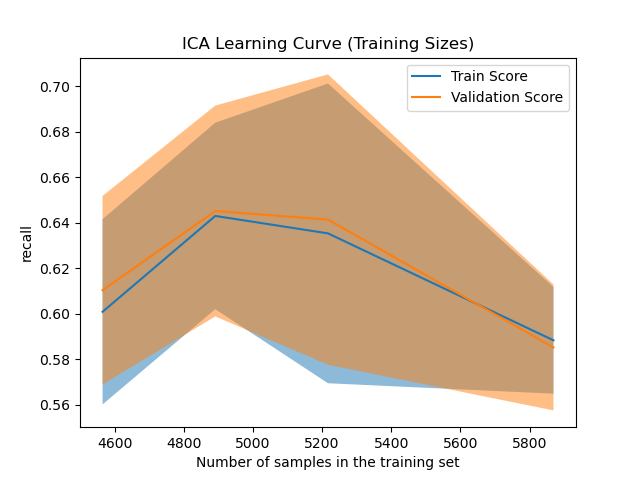
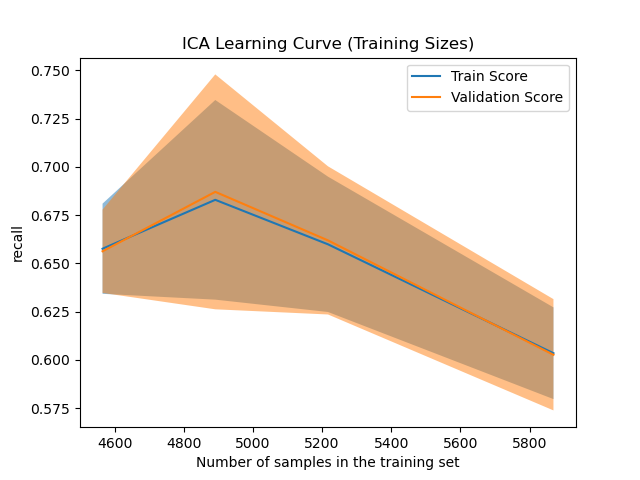
finished plots for dr eval

diff --git a/cs7641_machine_learning/lectures/week12/assignment3/source/dimensionality_reduction.py b/cs7641_machine_learning/lectures/week12/assignment3/source/dimensionality_reduction.py
@@ -14,7 +14,7 @@ from sklearn.manifold import (LocallyLinearEmbedding)
 np.random.seed(123)
 
 # linear
-def pca(X_train:pd.DataFrame, X_test:pd.DataFrame, kern='General'):
+def pca(X_train:pd.DataFrame, X_test:pd.DataFrame, components, kern='General'):
     """_summary_
 
     Args:
@@ -26,7 +26,7 @@ def pca(X_train:pd.DataFrame, X_test:pd.DataFrame, kern='General'):
     match kern:
         case 'General':
             print('Fitting General PCA')
-            transformer = PCA(n_components=2,
+            transformer = PCA(n_components=components,
                                 svd_solver='auto',
                                 random_state=123)
             transformer.fit(X_train)
@@ -34,12 +34,12 @@ def pca(X_train:pd.DataFrame, X_test:pd.DataFrame, kern='General'):
             X_test_transformed = transformer.transform(X_test)
 
             # Train DF
-            cols_tr = [f'pca{i}]' for i in range(X_train_transformed.shape[1])]
+            cols_tr = [f'pca{i}' for i in range(X_train_transformed.shape[1])]
             X_train_transformed = pd.DataFrame(data=X_train_transformed,
                                                 columns=cols_tr)
 
             # Test DF
-            cols_te = [f'pca{i}]' for i in range(X_test_transformed.shape[1])]
+            cols_te = [f'pca{i}' for i in range(X_test_transformed.shape[1])]
             X_test_transformed = pd.DataFrame(data=X_test_transformed,
                                                 columns=cols_te)
 
@@ -49,7 +49,7 @@ def pca(X_train:pd.DataFrame, X_test:pd.DataFrame, kern='General'):
 
     return transformer, X_train_transformed, X_test_transformed     
 
-def ica(X_train:pd.DataFrame, X_test:pd.DataFrame, which='fast'):
+def ica(X_train:pd.DataFrame, X_test:pd.DataFrame, components, which='fast'):
     """_summary_
 
     Args:
@@ -61,7 +61,7 @@ def ica(X_train:pd.DataFrame, X_test:pd.DataFrame, which='fast'):
     match which:
         case 'fast':
             print('Fitting and Transforming FastICA')
-            transformer = FastICA(n_components=2,
+            transformer = FastICA(n_components=components,
                                 random_state=123,
                                 whiten='unit-variance')
             transformer.fit(X_train)
@@ -69,12 +69,12 @@ def ica(X_train:pd.DataFrame, X_test:pd.DataFrame, which='fast'):
             X_test_transformed = transformer.transform(X_test)
 
             # Train DF
-            cols_tr = [f'ica{i}]' for i in range(X_train_transformed.shape[1])]
+            cols_tr = [f'ica{i}' for i in range(X_train_transformed.shape[1])]
             X_train_transformed = pd.DataFrame(data=X_train_transformed,
                                                 columns=cols_tr)
 
             # Test DF
-            cols_te = [f'ica{i}]' for i in range(X_test_transformed.shape[1])]
+            cols_te = [f'ica{i}' for i in range(X_test_transformed.shape[1])]
             X_test_transformed = pd.DataFrame(data=X_test_transformed,
                                                 columns=cols_te)
 
@@ -84,7 +84,7 @@ def ica(X_train:pd.DataFrame, X_test:pd.DataFrame, which='fast'):
 
     return transformer, X_train_transformed, X_test_transformed
 
-def randomized_projections(X_train:pd.DataFrame, X_test:pd.DataFrame, which='Sparse'):
+def randomized_projections(X_train:pd.DataFrame, X_test:pd.DataFrame, components, which='Sparse'):
     """_summary_
 
     Args:
@@ -96,7 +96,7 @@ def randomized_projections(X_train:pd.DataFrame, X_test:pd.DataFrame, which='Spa
     match which:
         case 'Sparse':
             print('Fitting and Transforing with Sparse Random Projection')
-            transformer = SparseRandomProjection(n_components=2,
+            transformer = SparseRandomProjection(n_components=components,
                                                 eps=0.9,
                                                 random_state=123)
             transformer.fit(X_train)
@@ -104,12 +104,12 @@ def randomized_projections(X_train:pd.DataFrame, X_test:pd.DataFrame, which='Spa
             X_test_transformed = transformer.transform(X_test)
 
             # Train DF
-            cols_tr = [f'srp{i}]' for i in range(X_train_transformed.shape[1])]
+            cols_tr = [f'srp{i}' for i in range(X_train_transformed.shape[1])]
             X_train_transformed = pd.DataFrame(data=X_train_transformed,
                                                 columns=cols_tr)
 
             # Test DF
-            cols_te = [f'srp{i}]' for i in range(X_test_transformed.shape[1])]
+            cols_te = [f'srp{i}' for i in range(X_test_transformed.shape[1])]
             X_test_transformed = pd.DataFrame(data=X_test_transformed,
                                                 columns=cols_te)
             
@@ -118,7 +118,7 @@ def randomized_projections(X_train:pd.DataFrame, X_test:pd.DataFrame, which='Spa
 
     return transformer, X_train_transformed, X_test_transformed
 
-def manifold_learning(X_train:pd.DataFrame, X_test:pd.DataFrame, which='hem'):
+def manifold_learning(X_train:pd.DataFrame, X_test:pd.DataFrame, components, neighbors,  which='hem'):
     """_summary_
 
     Args:
@@ -130,8 +130,8 @@ def manifold_learning(X_train:pd.DataFrame, X_test:pd.DataFrame, which='hem'):
     match which:
         case 'hem':
             print('Fitting and Transforming with Locally Linear Embedding: Heissan Mapping')
-            transformer = LocallyLinearEmbedding(n_neighbors=15,
-                                                n_components=2,
+            transformer = LocallyLinearEmbedding(n_neighbors=neighbors,
+                                                n_components=components,
                                                 reg=1e-3,
                                                 eigen_solver='dense',
                                                 method='hessian',
@@ -142,12 +142,12 @@ def manifold_learning(X_train:pd.DataFrame, X_test:pd.DataFrame, which='hem'):
             X_test_transformed = transformer.transform(X_test)
 
             # Train DF
-            cols_tr = [f'hlle{i}]' for i in range(X_train_transformed.shape[1])]
+            cols_tr = [f'hlle{i}' for i in range(X_train_transformed.shape[1])]
             X_train_transformed = pd.DataFrame(data=X_train_transformed,
                                                 columns=cols_tr)
 
             # Test DF
-            cols_te = [f'hlle{i}]' for i in range(X_test_transformed.shape[1])]
+            cols_te = [f'hlle{i}' for i in range(X_test_transformed.shape[1])]
             X_test_transformed = pd.DataFrame(data=X_test_transformed,
                                                 columns=cols_te)
             print('Done with Locally Linear Embedding: Heissan Mapping')
@@ -161,31 +161,43 @@ def main():
     X_train_scaled_cd, X_test_scaled_cd, y_train_cd, y_test_cd = final_dataset(dataset='cvd')
     
     # nf
-    # X_train_scaled_nf, X_test_scaled_nf, y_train_nf, y_test_nf = final_dataset(dataset='nf')
+    X_train_scaled_nf, X_test_scaled_nf, y_train_nf, y_test_nf = final_dataset(dataset='nf')
 
     # pca
     for k in ['General']:
-        pca(X_train=X_train_scaled_cd, X_test=X_test_scaled_cd, kern=k)
-        #pca(X_train=X_train_scaled_nf, X_test=X_test_scaled_nf, kern=k)
+        pca(X_train=X_train_scaled_cd, 
+            X_test=X_test_scaled_cd,
+            components=4, kern=k)
+        pca(X_train=X_train_scaled_nf,
+            X_test=X_test_scaled_nf,
+            components=4, kern=k)
 
     # ica
     for w in ['fast']:
-        ica(X_train=X_train_scaled_cd, X_test=X_test_scaled_cd, which=w)
-        #ica(X_train=X_train_scaled_nf, X_test=X_test_scaled_nf, which=w)
+        ica(X_train=X_train_scaled_cd, 
+            X_test=X_test_scaled_cd,
+            components=4, which=w)
+        ica(X_train=X_train_scaled_nf, X_test=X_test_scaled_nf, 
+            components=4,which=w)
 
     # randomized projections
     for w in ['Sparse']:
-        randomized_projections(X_train=X_train_scaled_cd, X_test=X_test_scaled_cd, which=w)
-        #randomized_projections(X_train=X_train_scaled_nf, X_test=X_test_scaled_nf, which=w)
+        randomized_projections(X_train=X_train_scaled_cd,
+                                X_test=X_test_scaled_cd,
+                                components=4, which=w)
+        randomized_projections(X_train=X_train_scaled_nf, X_test=X_test_scaled_nf,
+                                components=4, which=w)
 
         # manifold learning
     for w in ['hem']:
         manifold_learning(X_train=X_train_scaled_cd,
                             X_test=X_test_scaled_cd,
+                            components=5, neighbors=21,
                             which=w)
-        # manifold_learning(X_train=X_train_scaled_nf,
-        #                   X_test=X_test_scaled_nf,
-        #                   which=w)
+        manifold_learning(X_train=X_train_scaled_nf,
+                            X_test=X_test_scaled_nf,
+                            components=5, neighbors=21,
+                            which=w)
 
 if __name__ == "__main__":
     main()

diff --git a/cs7641_machine_learning/lectures/week12/assignment3/source/steps.py b/cs7641_machine_learning/lectures/week12/assignment3/source/steps.py
@@ -63,12 +63,23 @@ def step2(X_train:pd.DataFrame,
                     dset,
                     results)
     print(f'Step: 2')
+
+    if dset == 'cvd':
+        pca_comp, ica_comp, srp_comp, hlle_comp = 4, 4, 4, 5
+        hlle_neigh = 21
+        
+        
+
+    elif dset == 'nf':
+        pca_comp, ica_comp, srp_comp, hlle_comp = 4, 4, 4, 5
+        hlle_neigh = 21
+        
     X_train_copy2 = X_train.copy()
     X_test_copy2 = X_test.copy()
-    gpca = dr.pca(X_train=X_train_copy2, X_test=X_test_copy2)
-    fica = dr.ica(X_train=X_train_copy2, X_test=X_test_copy2)
-    srp= dr.randomized_projections(X_train=X_train_copy2, X_test=X_test_copy2)
-    lleh = dr.manifold_learning(X_train=X_train_copy2, X_test=X_test_copy2)
+    gpca = dr.pca(X_train=X_train_copy2, X_test=X_test_copy2, components=pca_comp)
+    fica = dr.ica(X_train=X_train_copy2, X_test=X_test_copy2, components=ica_comp)
+    srp= dr.randomized_projections(X_train=X_train_copy2, X_test=X_test_copy2, components=srp_comp)
+    lleh = dr.manifold_learning(X_train=X_train_copy2, X_test=X_test_copy2, components=hlle_comp, neighbors=hlle_neigh)
     results[dset]['step2']['pca'] = gpca
     results[dset]['step2']['ica'] = fica
     results[dset]['step2']['sparseRP'] = srp
@@ -95,11 +106,11 @@ def step3(X_train:pd.DataFrame,
     # DR
     if dset == 'cvd':
         n_clusters = 3
-        components = 5
+        gmcomponents = 5
 
     elif dset == 'nf':
         n_clusters = 4
-        components = 5
+        gmcomponents = 5
 
     pca_train_copy = results[dset]['step2']['pca'][1].copy()
     pca_test_copy = results[dset]['step2']['pca'][2].copy()
@@ -111,19 +122,19 @@ def step3(X_train:pd.DataFrame,
     manifold_test_copy = results[dset]['step2']['manifold'][2].copy()
     
     # pca
-    gm_pca = cl.expectation_maximization(X_train=pca_train_copy, X_test=pca_test_copy, components=components, which='Gaussian')
+    gm_pca = cl.expectation_maximization(X_train=pca_train_copy, X_test=pca_test_copy, components=gmcomponents, which='Gaussian')
     clustering_pca = cl.cluster_model(X_train=pca_train_copy, X_test=pca_test_copy, n_clusters=n_clusters, which='kmeans')
 
     # ica
-    gm_ica = cl.expectation_maximization(X_train=ica_train_copy, X_test=ica_test_copy, components=components, which='Gaussian')
+    gm_ica = cl.expectation_maximization(X_train=ica_train_copy, X_test=ica_test_copy, components=gmcomponents, which='Gaussian')
     clustering_ica = cl.cluster_model(X_train=ica_train_copy, X_test=ica_test_copy, n_clusters=n_clusters, which='kmeans')
 
     # srp
-    gm_srp = cl.expectation_maximization(X_train=sparseRP_train_copy, X_test=sparseRP_test_copy, components=components, which='Gaussian')
+    gm_srp = cl.expectation_maximization(X_train=sparseRP_train_copy, X_test=sparseRP_test_copy, components=gmcomponents, which='Gaussian')
     clustering_srp = cl.cluster_model(X_train=sparseRP_train_copy, X_test=sparseRP_test_copy, n_clusters=n_clusters, which='kmeans')
 
     # manifold learning
-    gm_maniL = cl.expectation_maximization(X_train=manifold_train_copy, X_test=manifold_test_copy, components=components, which='Gaussian')
+    gm_maniL = cl.expectation_maximization(X_train=manifold_train_copy, X_test=manifold_test_copy, components=gmcomponents, which='Gaussian')
     clustering_maniL = cl.cluster_model(X_train=manifold_train_copy, X_test=manifold_test_copy, n_clusters=n_clusters, which='kmeans')
 
     # gm

diff --git a/cs7641_machine_learning/lectures/week12/assignment3/source/dimensionality_reduction_plots.py b/cs7641_machine_learning/lectures/week12/assignment3/source/dimensionality_reduction_plots.py
@@ -75,18 +75,20 @@ def dr_metrics(X_train, y_train, X_test, y_test, dset):
         output['Explained Variance'][ncomponents] = exp_var
         output['Explained Variance Ratio'][ncomponents] = exp_var_rat
         output['Kurtosis'][ncomponents] = kurt
-        output[score_key][ncomponents] = score 
+        output[score_key][ncomponents] = score
         output['Reconstruction Error'][ncomponents] = recon
         output['N Neighbors'][ncomponents] = nneighbors
         
     return output, X_new_pca, X_orgin_pca
 
-def optimal_ncomponents(output):
+def optimal_ncomponents(output, dset):
     
     xlabel = 'Number of Components'
     title = 'Determining Number of Components'
     
     for i, (metric, ncomponent_score) in enumerate(output.items()):
+        if metric == 'N Neighbors': continue
+        
 
         x = list(ncomponent_score.keys())
         y = list(ncomponent_score.values())
@@ -104,23 +106,19 @@ def optimal_ncomponents(output):
 
             case 'Recall': model = 'srp'
 
-            case 'Balanceed Accuracy': model = 'srp'
+            case 'Balanced Accuracy': model = 'srp'
 
             case 'Reconstruction Error':
                 x2 = list(output['N Neighbors'].values())
                 ax2 = ax.twiny()
-                ax2.set_xticks(x2)
-                ax2.set_xlabel('N Neighbors')
+                ax2.set(xlabel='N Neighbors', xticks=x2)
                 model = 'ml'
-
-            case 'N Neighbors':
-                continue
             
         ax.plot(x, y, linewidth=2, color='red')
-        ax.set(xlabel=xlabel, ylabel=metric, xticks=range(1, 6), title=title)
+        ax.set(xlabel=xlabel, ylabel=metric, xticks=x, title=title)
         ax.grid()
 
-        save_loc = f'{course_assign}plots/{dset}/dr/{model}/optimal_components.png'
+        save_loc = f'{course_assign}plots/{dset}/dr/{model}/{metric}_opt_compon.png'
         plt.savefig(fname=f"{save_loc}")
 
         plt.tight_layout()
@@ -155,12 +153,10 @@ def get_pca_plots(X_train, y_train, X_test, y_test, dset):
                                                 X_test,
                                                 y_test, 
                                                 dset)
-    print(output)
-    list_of_colors = list(range(8696))
-
+    
     # plots
-    optimal_ncomponents(output)
-    #pca_plot(list_of_colors, X_new_pca, X_orgin_pca)
+    optimal_ncomponents(output, dset)
+    #pca_plot(list(range(8696)), X_new_pca, X_orgin_pca)
     
 def main():
 

diff --git a/cs7641_machine_learning/lectures/week12/assignment3/source/cluster_plots.py b/cs7641_machine_learning/lectures/week12/assignment3/source/cluster_plots.py
@@ -118,7 +118,7 @@ def cluster_metrics(X_train, y_train):
         output['Adjusted Rand Score'][nclusters] = adjusted_rand_score(y_train, cluster_labels)
         output['Adjusted Mutual Info Score'][nclusters] = adjusted_mutual_info_score(y_train, cluster_labels)
 
-    return output
+    return output, kmeans.cluster_centers_, cluster_labels
 
 def nclusters_optimal(X_train, y_train, dset):
 
